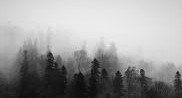
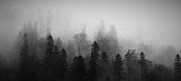
added backgrounds to each section

diff --git a/style.css b/style.css
@@ -1,18 +1,16 @@
 .mid .hero{
     padding-top:250px;
     width: 100%;
-    height: 80%;
-    background: url(assets/title.jpg) no-repeat;
+    height: 100%;
+    background: url(assets/title2.jpg) no-repeat;
     background-size: 100%;
-    margin-bottom: 0;
-    border-radius: 0;
-
 }
 .mid .hero h2{
     font-family:'Segoe UI', Tahoma, Geneva, Verdana, sans-serif;
     font-size: 6rem;
     font-weight: 500;
-    color: rgb(54, 54, 54);
+    color:lightgray;
+    /*color: rgb(54, 54, 54);*/
     
 }
 .mid .hero h3{
@@ -21,11 +19,34 @@
     color: white
 }
 
+.empty{
+    padding-top: 110px;
+}
+
 .aboutme{
     background: url(assets/aboutme.jpg) no-repeat;
     background-size: 2000px;
-    height: 90%;
+    height: 95%;
     width: 100%;
-    margin-top: 0;
-    border-radius: 0;
+}
+
+.skills{
+    background: url(assets/other2.jpg) no-repeat;
+    background-size: 2000px;
+    height: 100%;
+    width: 100%;
+}
+
+.projects{
+    background: url(assets/projects.jpg) no-repeat;
+    background-size: 2000px;
+    height: 100%;
+    width: 100%;
+}
+
+.contact{
+    background: url(assets/contact.jpg) no-repeat;
+    background-size: 2000px;
+    height: 100%;
+    width: 100%;
 }

diff --git a/index.html b/index.html
@@ -19,7 +19,7 @@
           <div class="collapse navbar-collapse" id="navbarNav">
             <ul class="navbar-nav navbar-right">
               <li class="nav-item">
-                <a class="nav-link active" aria-current="page" href="#about">About</a>
+                <a class="nav-link" href="#about">About</a>
               </li>
               <li class="nav-item">
                 <a class="nav-link" href="#skills">Skills</a>
@@ -45,7 +45,9 @@
         </div>
     </header>
 
+    
     <section class="aboutme container-fluid py-5 px-auto">
+        <div class="empty"></div>
             <div class="row align-items-center container my-5 mx-auto">
                 <div class="img col-lg-6 col-md-6 col-12 w-50 pt-5 pb-5">
                     <img class="img-fluid" src="" alt="where my portfolio picture will go">
